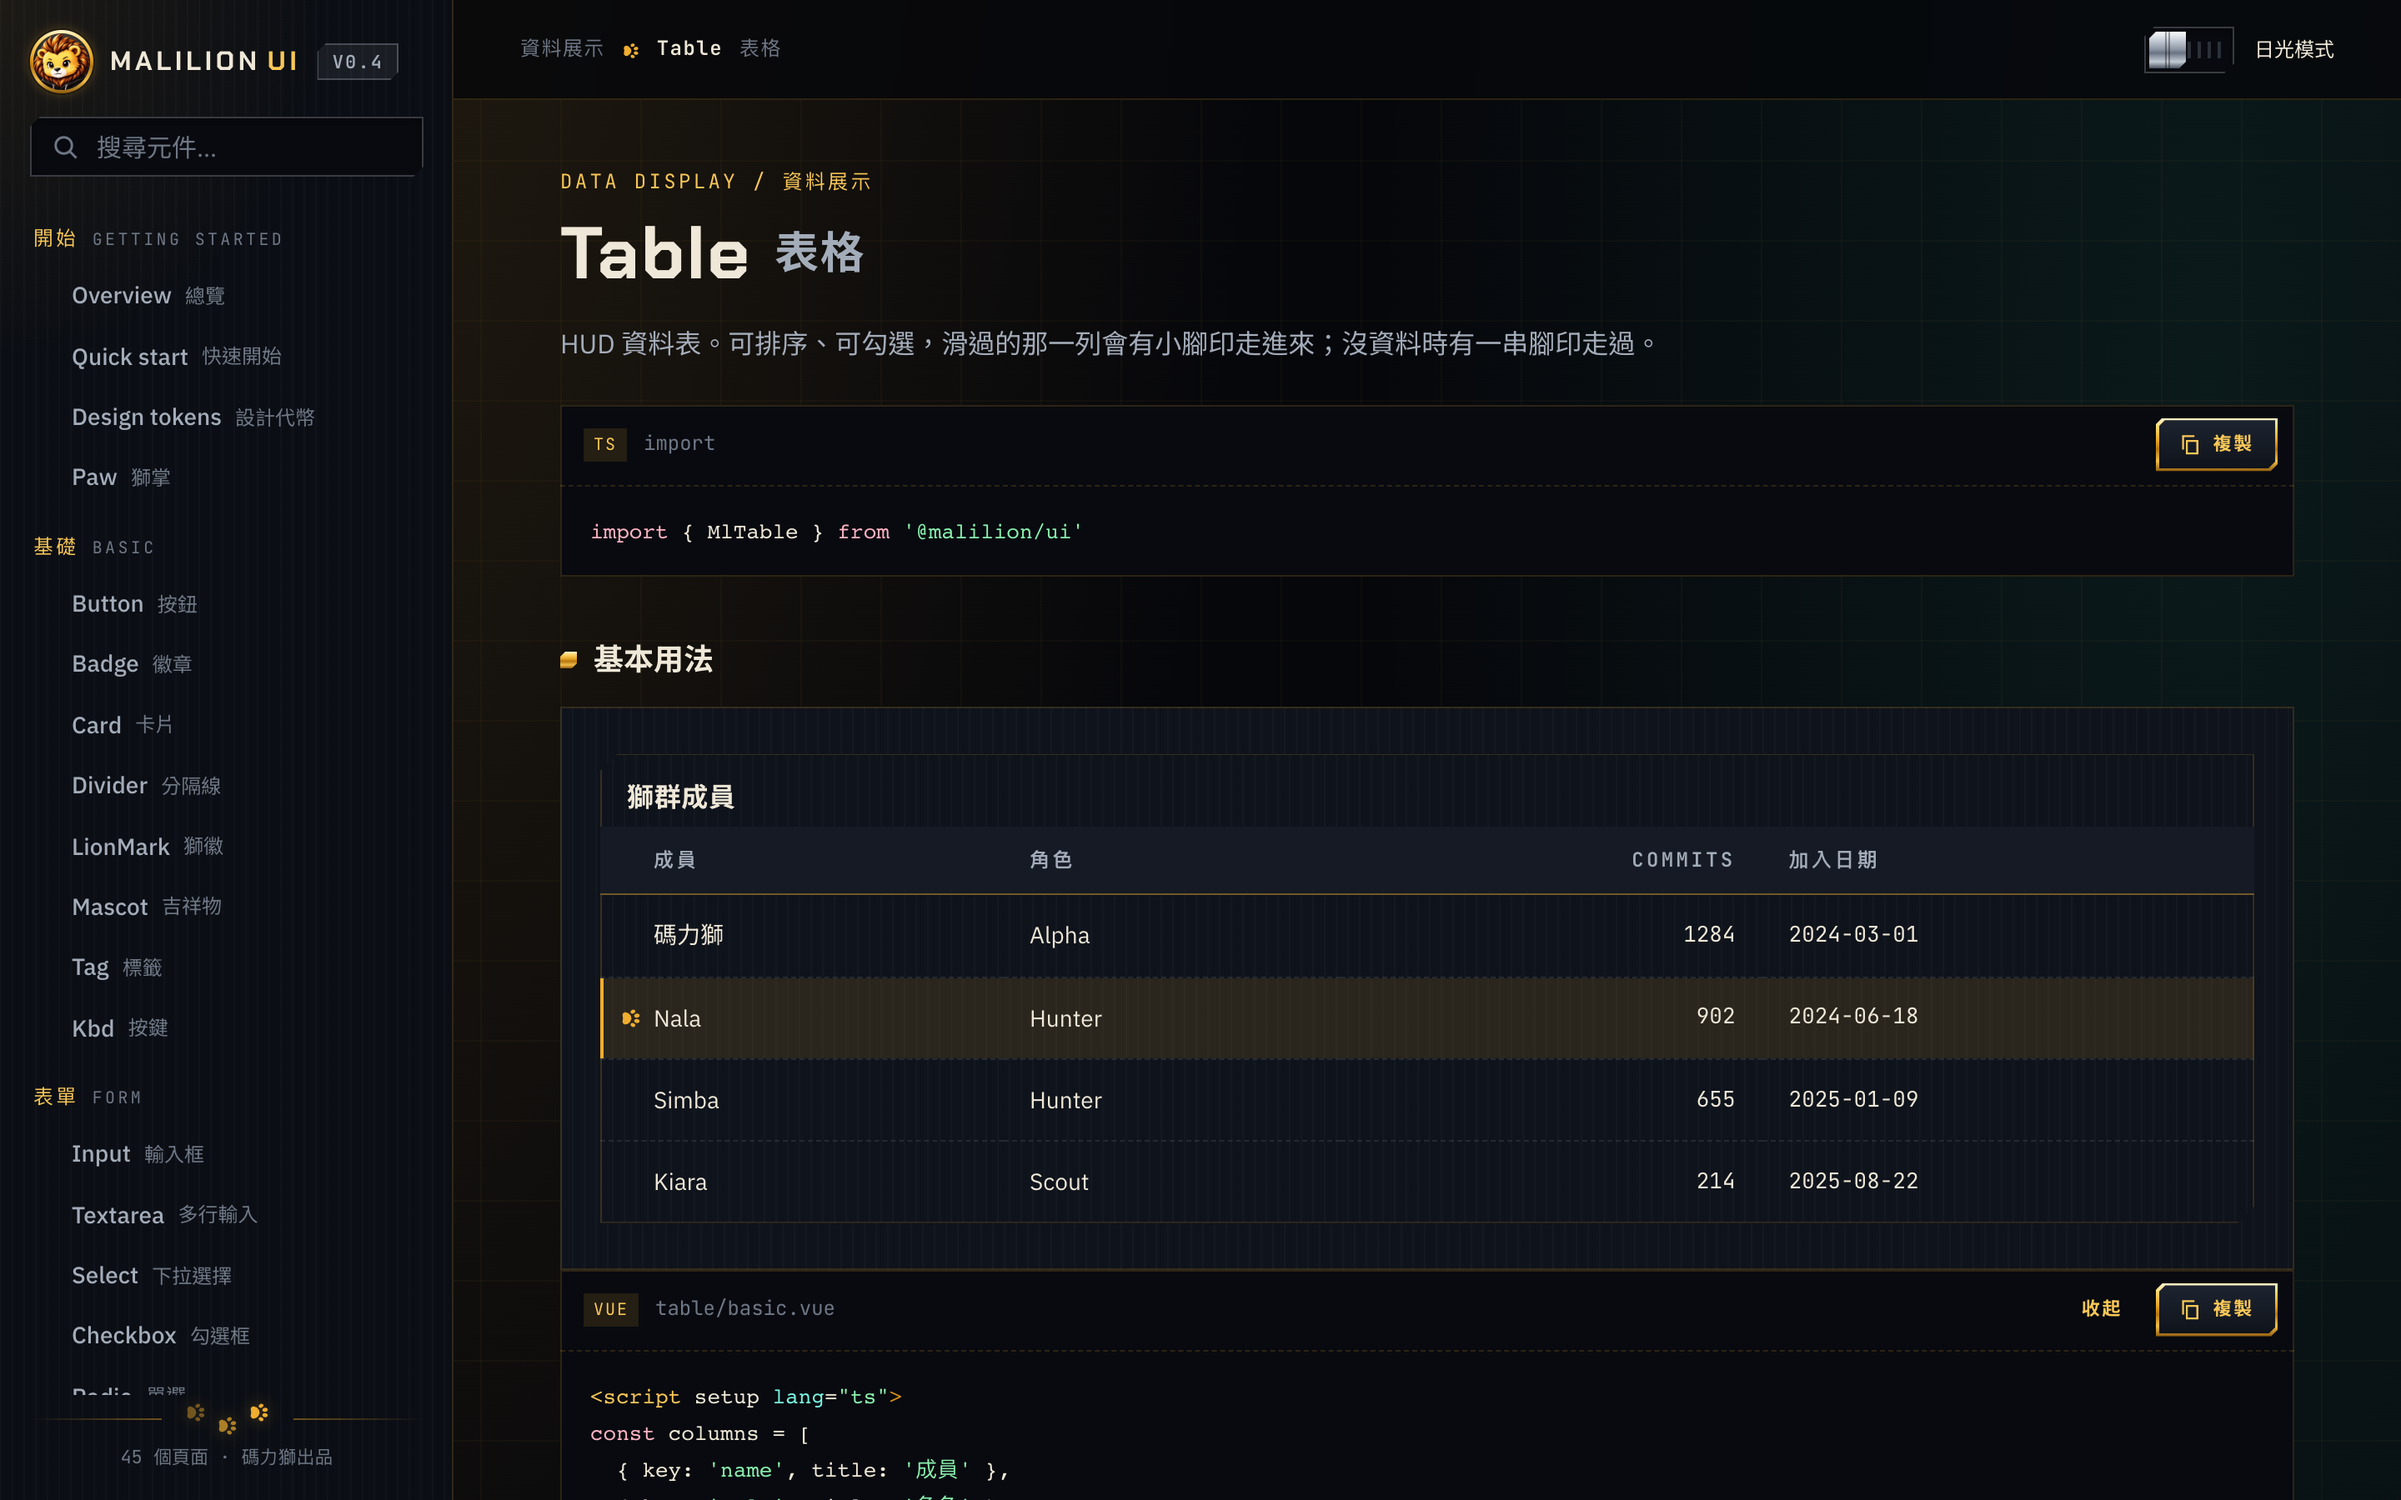
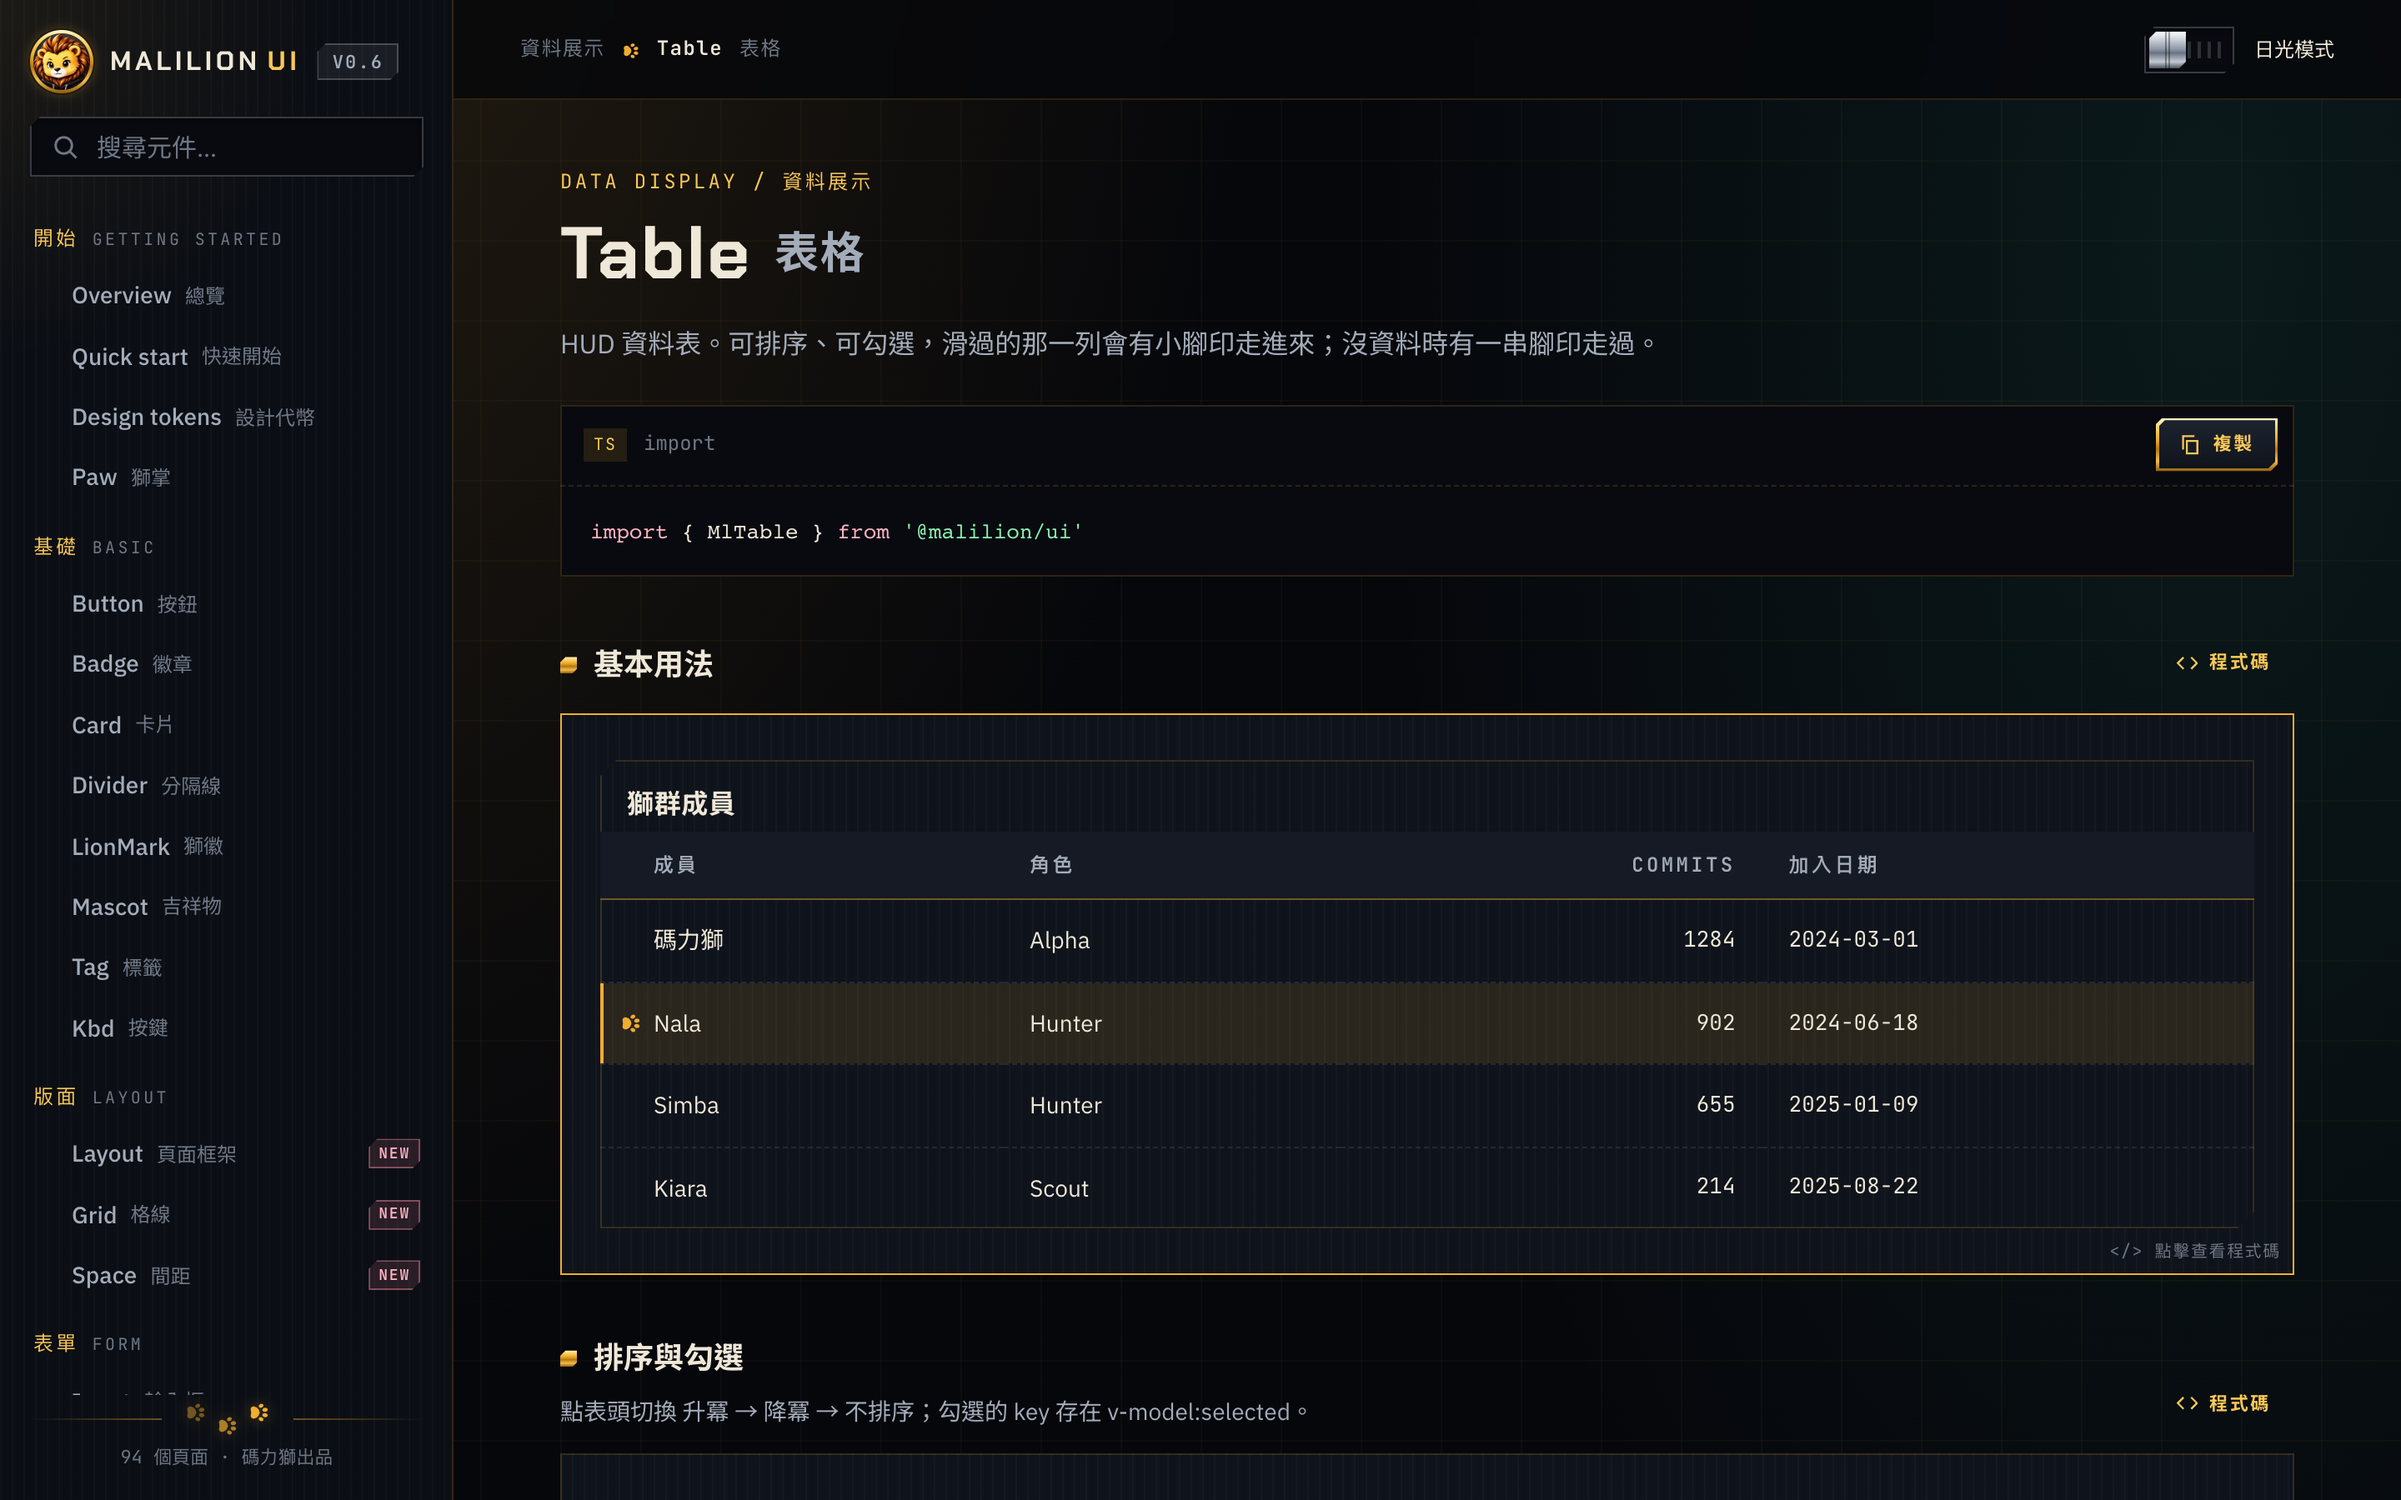
Refresh the README hero and docs-site screenshots for 0.6
The hero now counts 101 components and greets in Malilion Paw; the docs-site
shot shows the v0.6 sidebar with the new Layout group.

diff --git a/playground/Shots.vue b/playground/Shots.vue
@@ -250,6 +250,7 @@ const themes = [
           <span class="ml-metal-text">MALILION</span>
           <span class="ml-metal-text ml-metal-text--steel">UI</span>
         </h1>
+        <p class="hero__paw ml-font-paw">hi, i'm malilion! let's ship it… &#xE000;</p>
         <p class="hero__lead">
           <strong>獅子</strong> × <strong>科技</strong> × <strong>金屬</strong> ×
           <strong class="bean">肉球</strong><br />
@@ -264,7 +265,7 @@ const themes = [
           </MlButton>
         </div>
         <div class="row hero__badges">
-          <MlBadge paw>48 Components</MlBadge>
+          <MlBadge paw>101 Components</MlBadge>
           <MlBadge tone="tech" dot>Vue 3 · TS</MlBadge>
           <MlBadge tone="steel">2 Themes</MlBadge>
           <MlBadge tone="bean" solid paw>Cute</MlBadge>
@@ -1594,6 +1595,12 @@ body {
   margin-top: 26px;
 }
 /* v0.6 panels */
+.hero__paw {
+  margin: 10px 0 -6px;
+  color: var(--ml-accent-text);
+  font-size: 24px;
+}
+
 .v6-work {
   display: grid;
   grid-template-columns: 250px 1fr;
